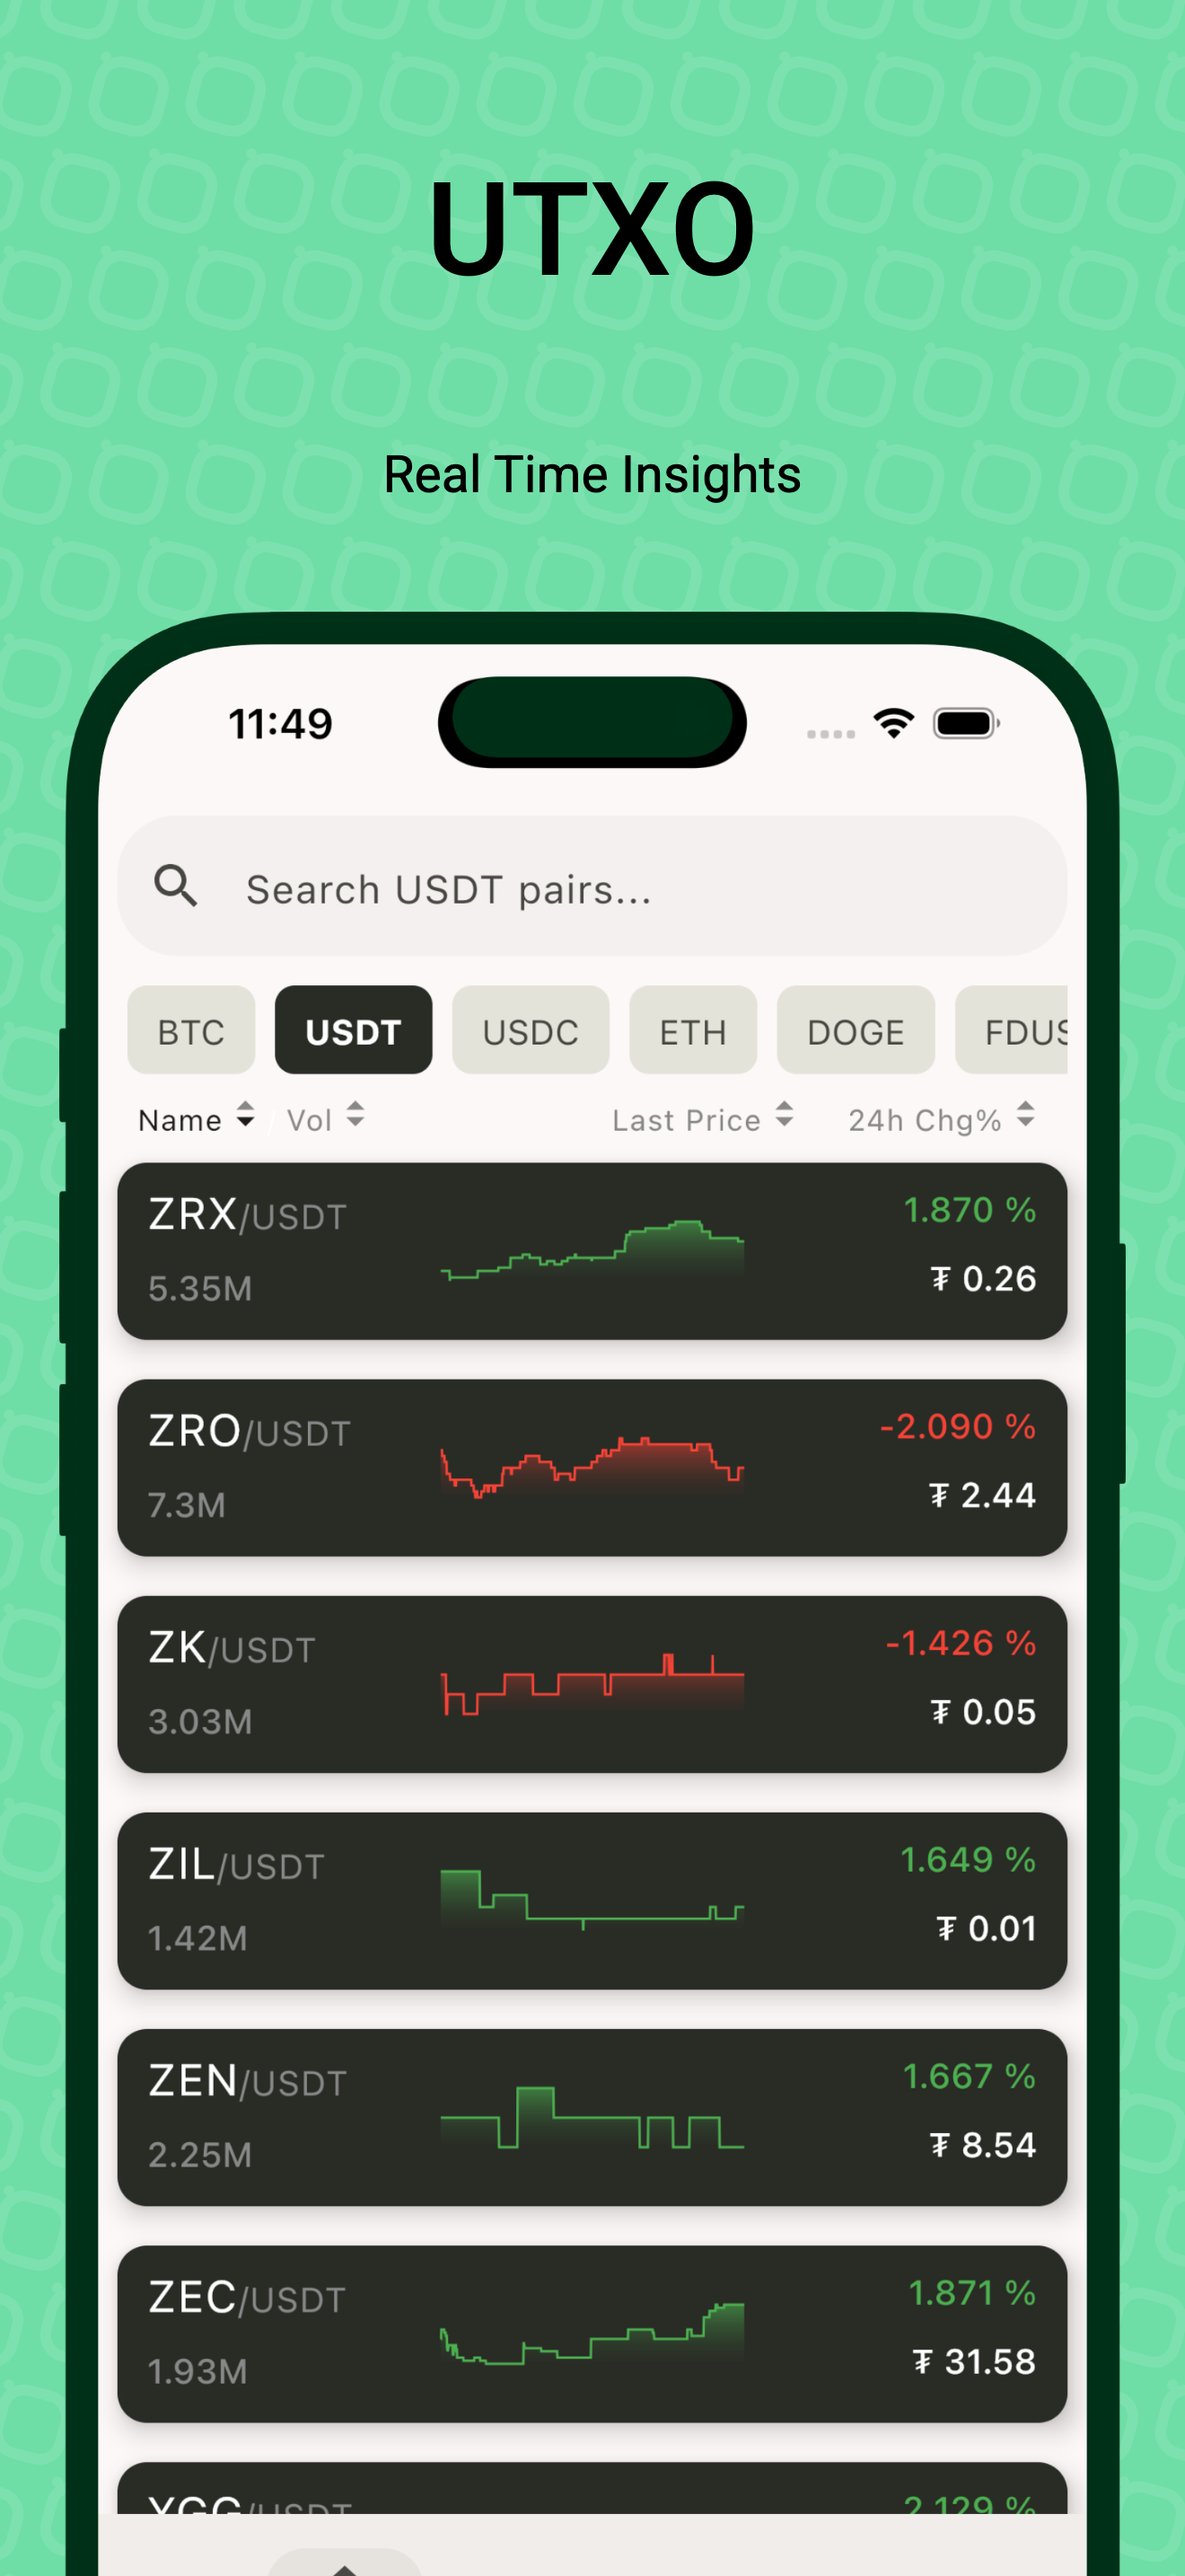
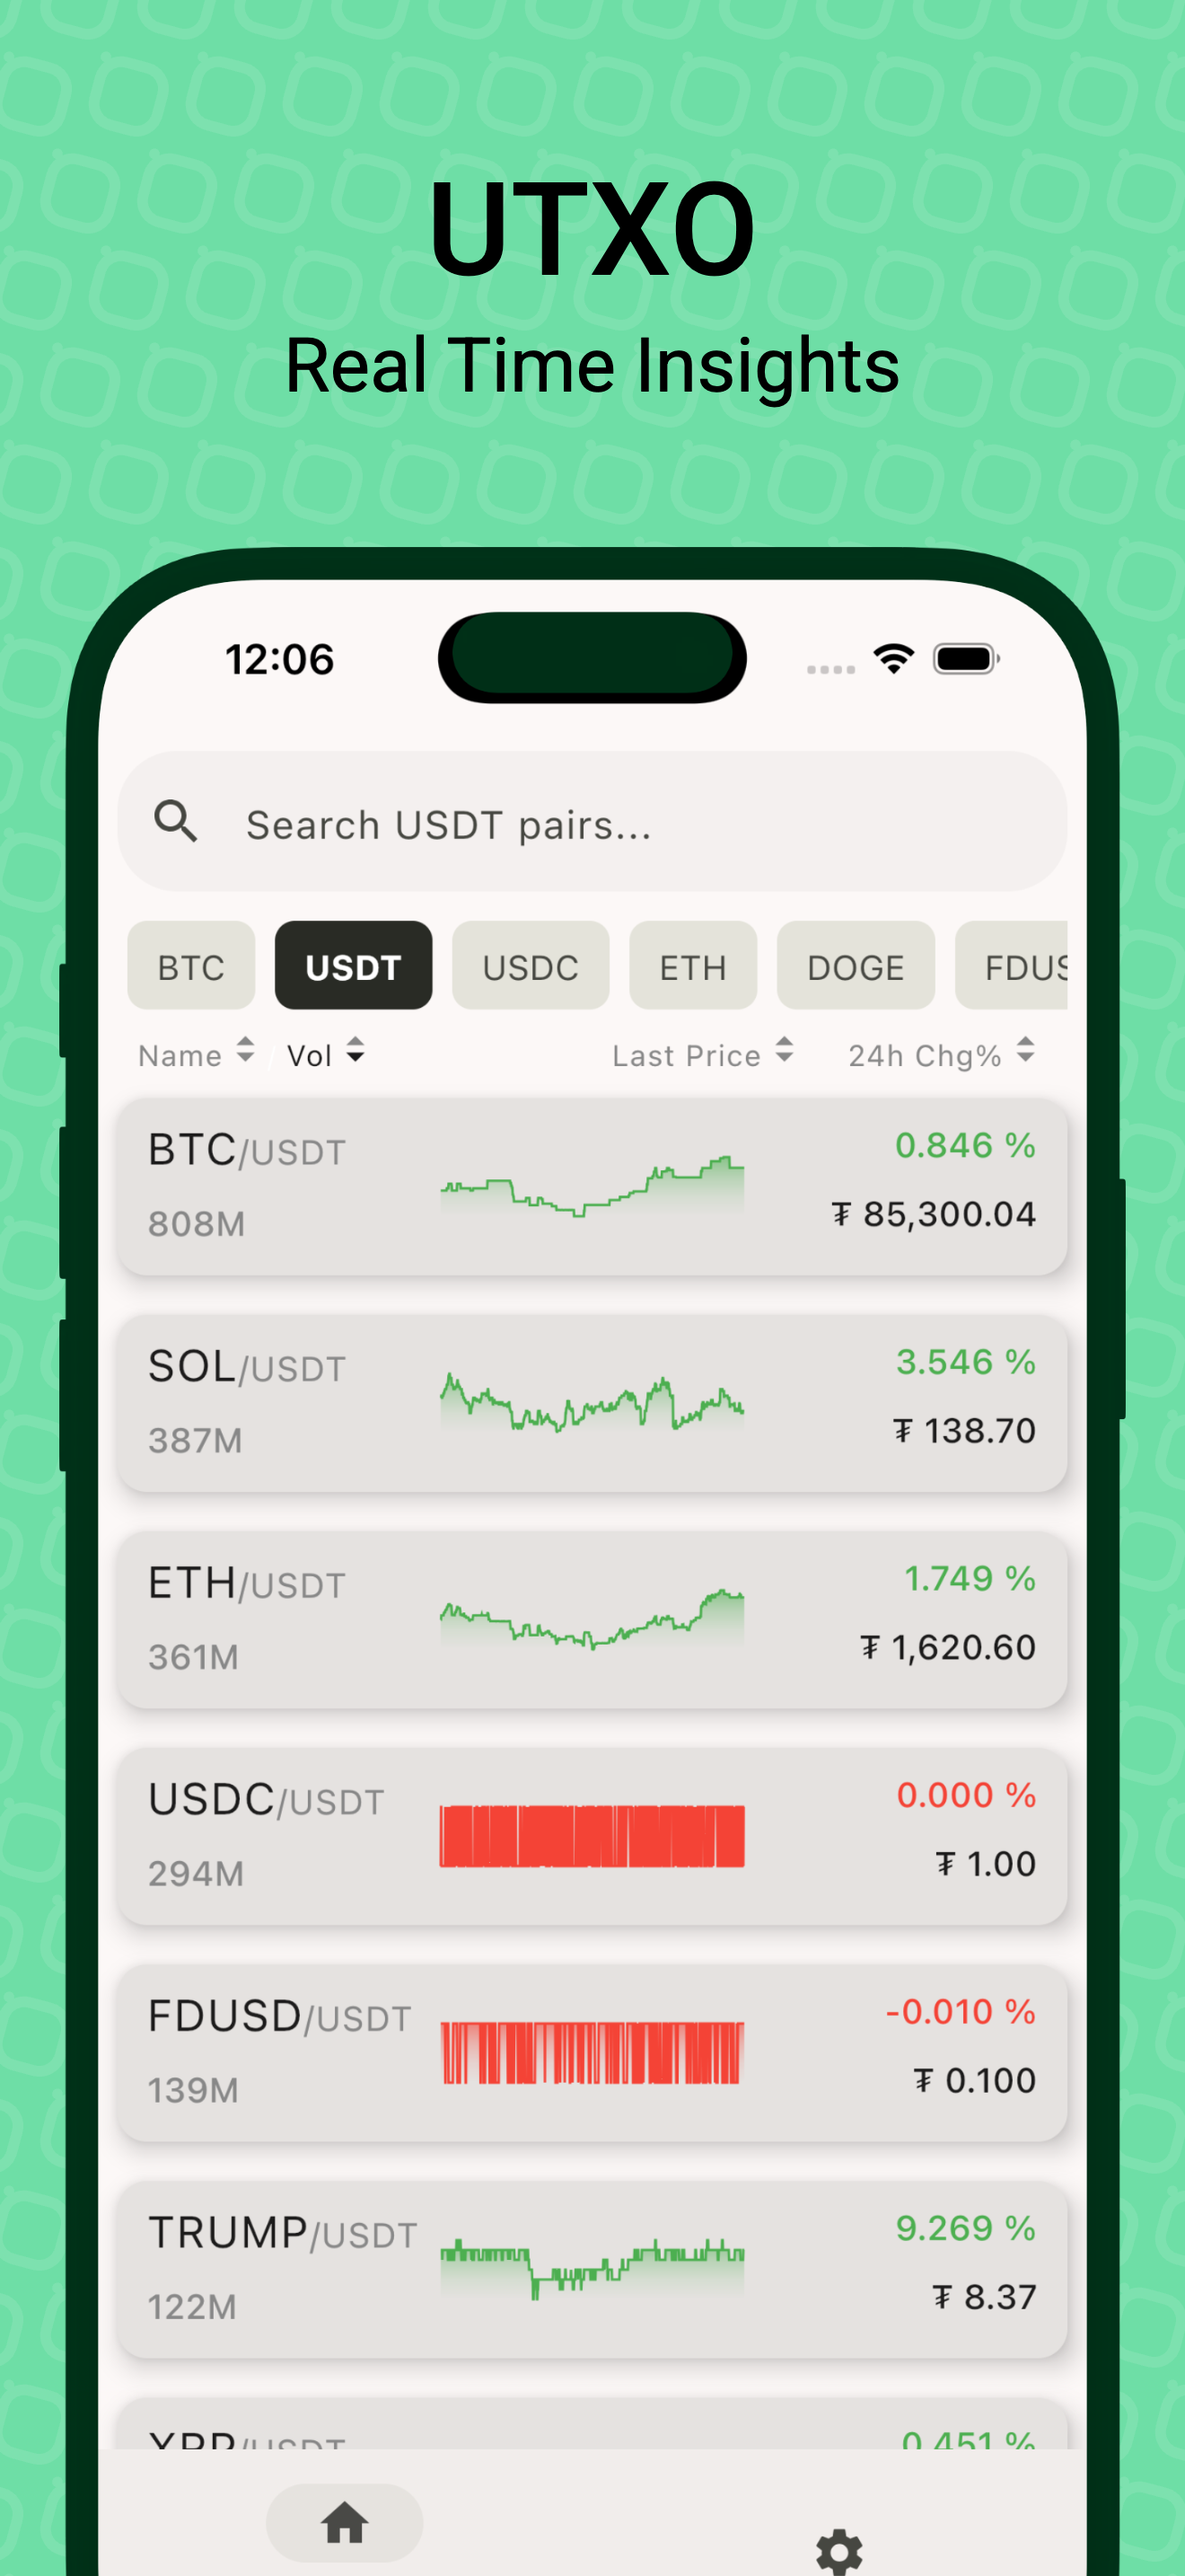
Update app version to 0.1.6 and improve UI components
- Bump version code from 15 to 16 and version name from 0.1.5 to 0.1.6
- Update version display in SettingsScreen
- Fix progress indicator color in CryptoListScreen to use default theme colors
- Simplify card styling in CryptoListScreen to inherit from theme defaults
- Update screenshots

diff --git a/composeApp/src/commonMain/kotlin/ui/CryptoListScreen.kt b/composeApp/src/commonMain/kotlin/ui/CryptoListScreen.kt
@@ -346,7 +346,7 @@ fun RowScope.TradeChart(
                 .padding(16.dp),
             contentAlignment = Alignment.Center
         ) {
-            LinearProgressIndicator(color = MaterialTheme.colorScheme.onPrimary)
+            LinearProgressIndicator()
         }
         return
     }
@@ -578,11 +578,7 @@ fun TickerCard(
         modifier = Modifier
             .fillMaxWidth()
             .padding(8.dp),
-        elevation = CardDefaults.cardElevation(8.dp),
-        colors = CardDefaults.cardColors(
-            containerColor = MaterialTheme.colorScheme.primary,
-            contentColor = MaterialTheme.colorScheme.onPrimary
-        )
+        elevation = CardDefaults.cardElevation(8.dp)
     ) {
         Row(
             modifier = Modifier

diff --git a/composeApp/src/commonMain/kotlin/ui/SettingsScreen.kt b/composeApp/src/commonMain/kotlin/ui/SettingsScreen.kt
@@ -125,7 +125,7 @@ fun SettingsScreen(
                     SettingsItem(
                         icon = Icons.Default.Info,
                         title = "Version",
-                        subtitle = "0.1.5",
+                        subtitle = "0.1.6",
                         onClick = null
                     )
                     SettingsItem(
